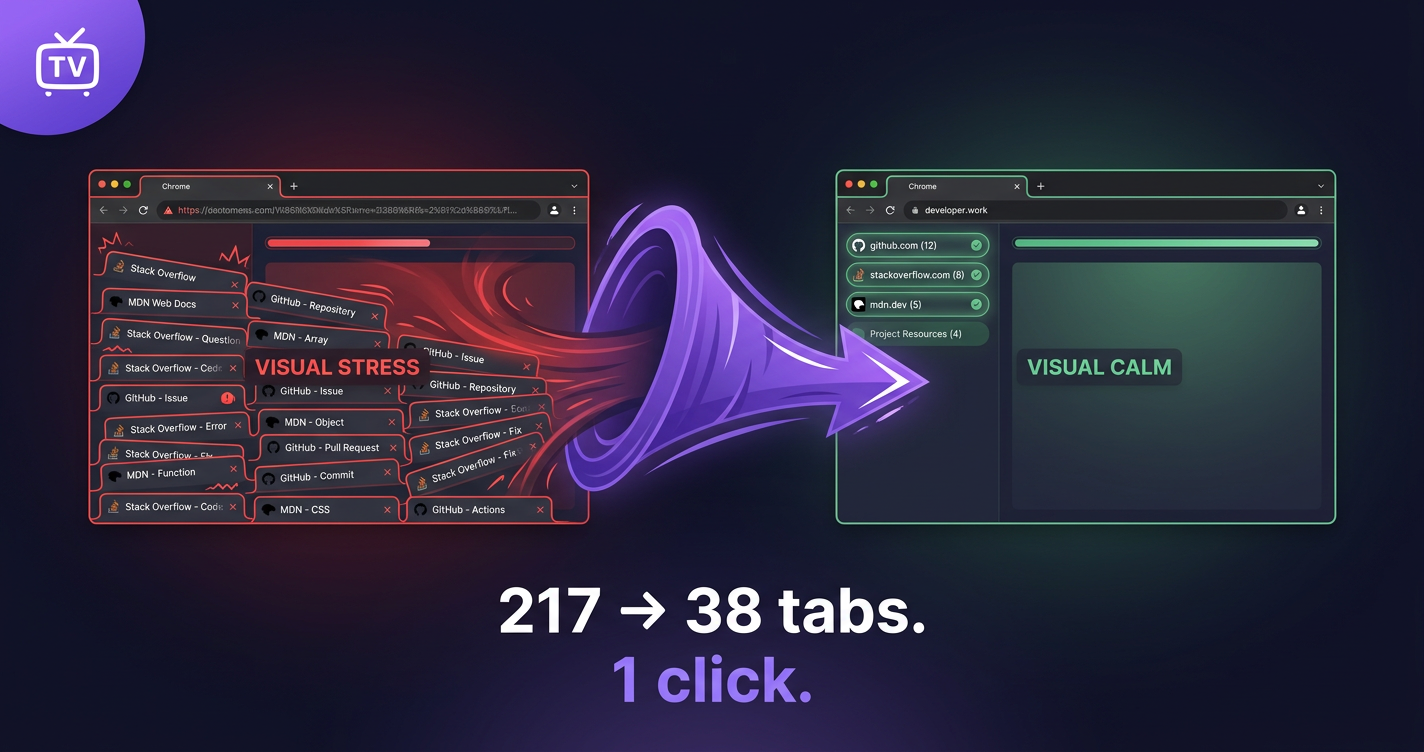
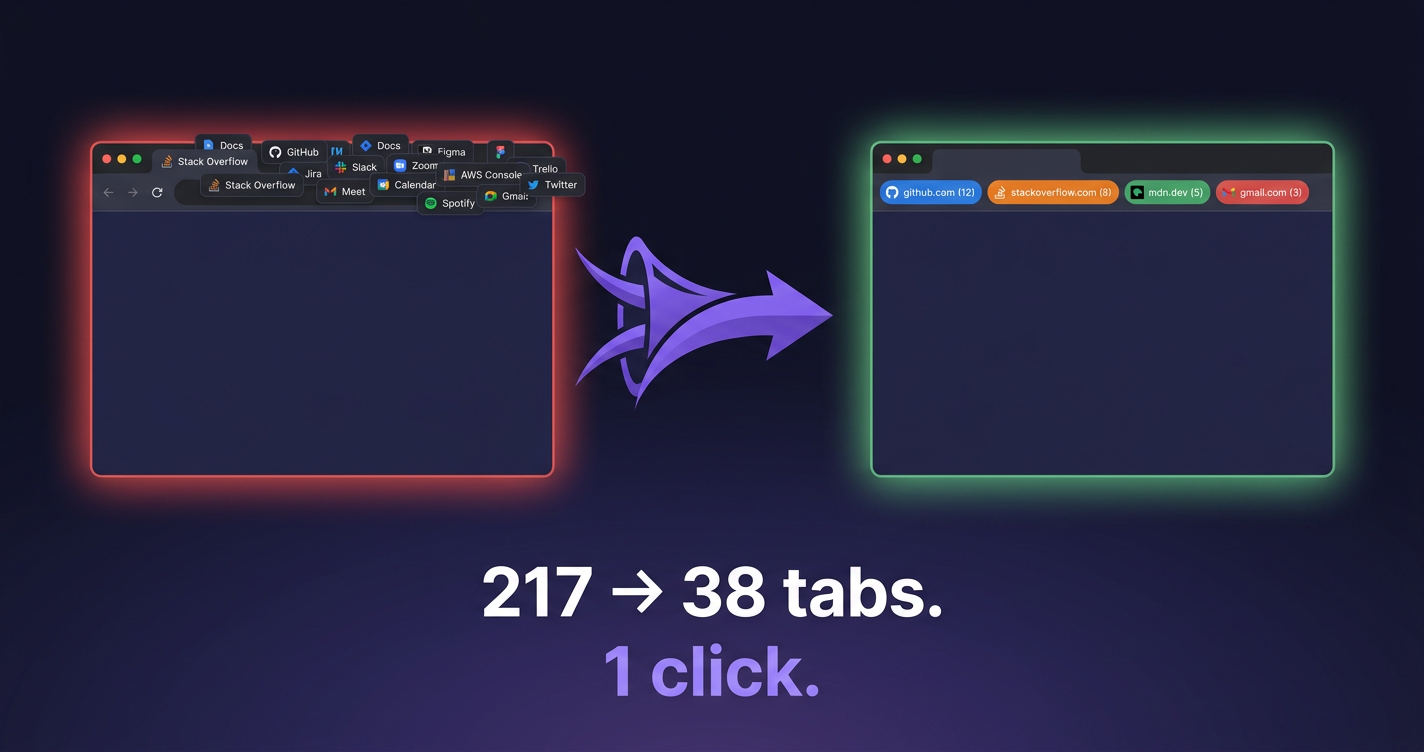
Add demo.gif animation, regenerate og.png without TV badge
- docs/demo.gif: 2-frame ping-pong animation (BEFORE: 4 chaotic
  Chrome windows with overflowing duplicates / AFTER: 1 clean
  window with 4 collapsed tab-group pills). 720x402, 159KB, loops
  every 4s. Designed graphic, not a real screen recording — when
  a real capture exists, drop it at docs/demo.gif and re-commit.
- docs/og.png: regenerated to remove the "TV" monogram from the
  top-left corner (was reading as "television", not "Tab Vacuum").
- docs/index.html + README.md: hero <img> now points to demo.gif.

diff --git a/docs/index.html b/docs/index.html
@@ -273,8 +273,7 @@
     </a>
 
     <div class="demo">
-      <!-- Replace with demo.gif (real screen recording) once recorded -->
-      <img src="og.png" alt="Tab Vacuum: 217 chaotic tabs across 4 Chrome windows collapse into 38 tabs in one tidy grouped window in one click" />
+      <img src="demo.gif" alt="Tab Vacuum: 217 chaotic tabs across 4 Chrome windows collapse into 38 tabs in one tidy grouped window in one click" />
     </div>
   </header>
 

diff --git a/README.md b/README.md
@@ -6,7 +6,7 @@
 [![License: MIT](https://img.shields.io/badge/License-MIT-green.svg)](LICENSE)
 [![Size](https://img.shields.io/badge/code-~50%20lines-brightgreen)](background.js)
 
-![Tab Vacuum demo](docs/og.png)
+![Tab Vacuum demo](docs/demo.gif)
 
 Drowning in 4 windows × 80 tabs, half of them duplicates of the same Stack Overflow page? Tab Vacuum is a 1-click fix.
 